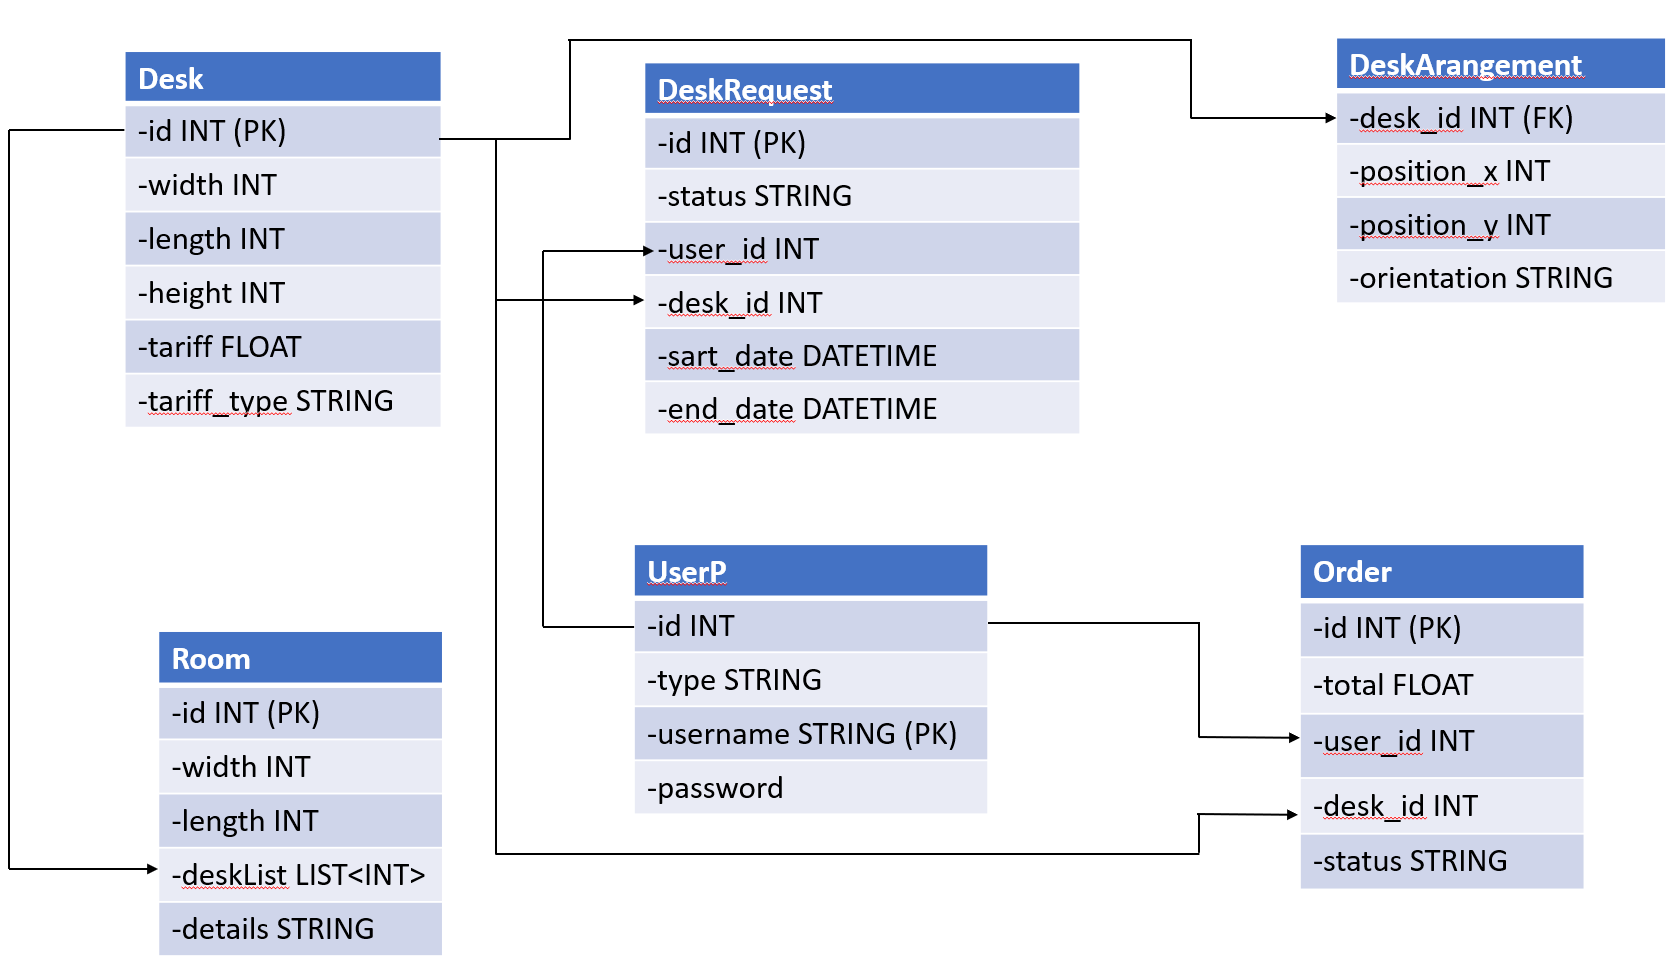
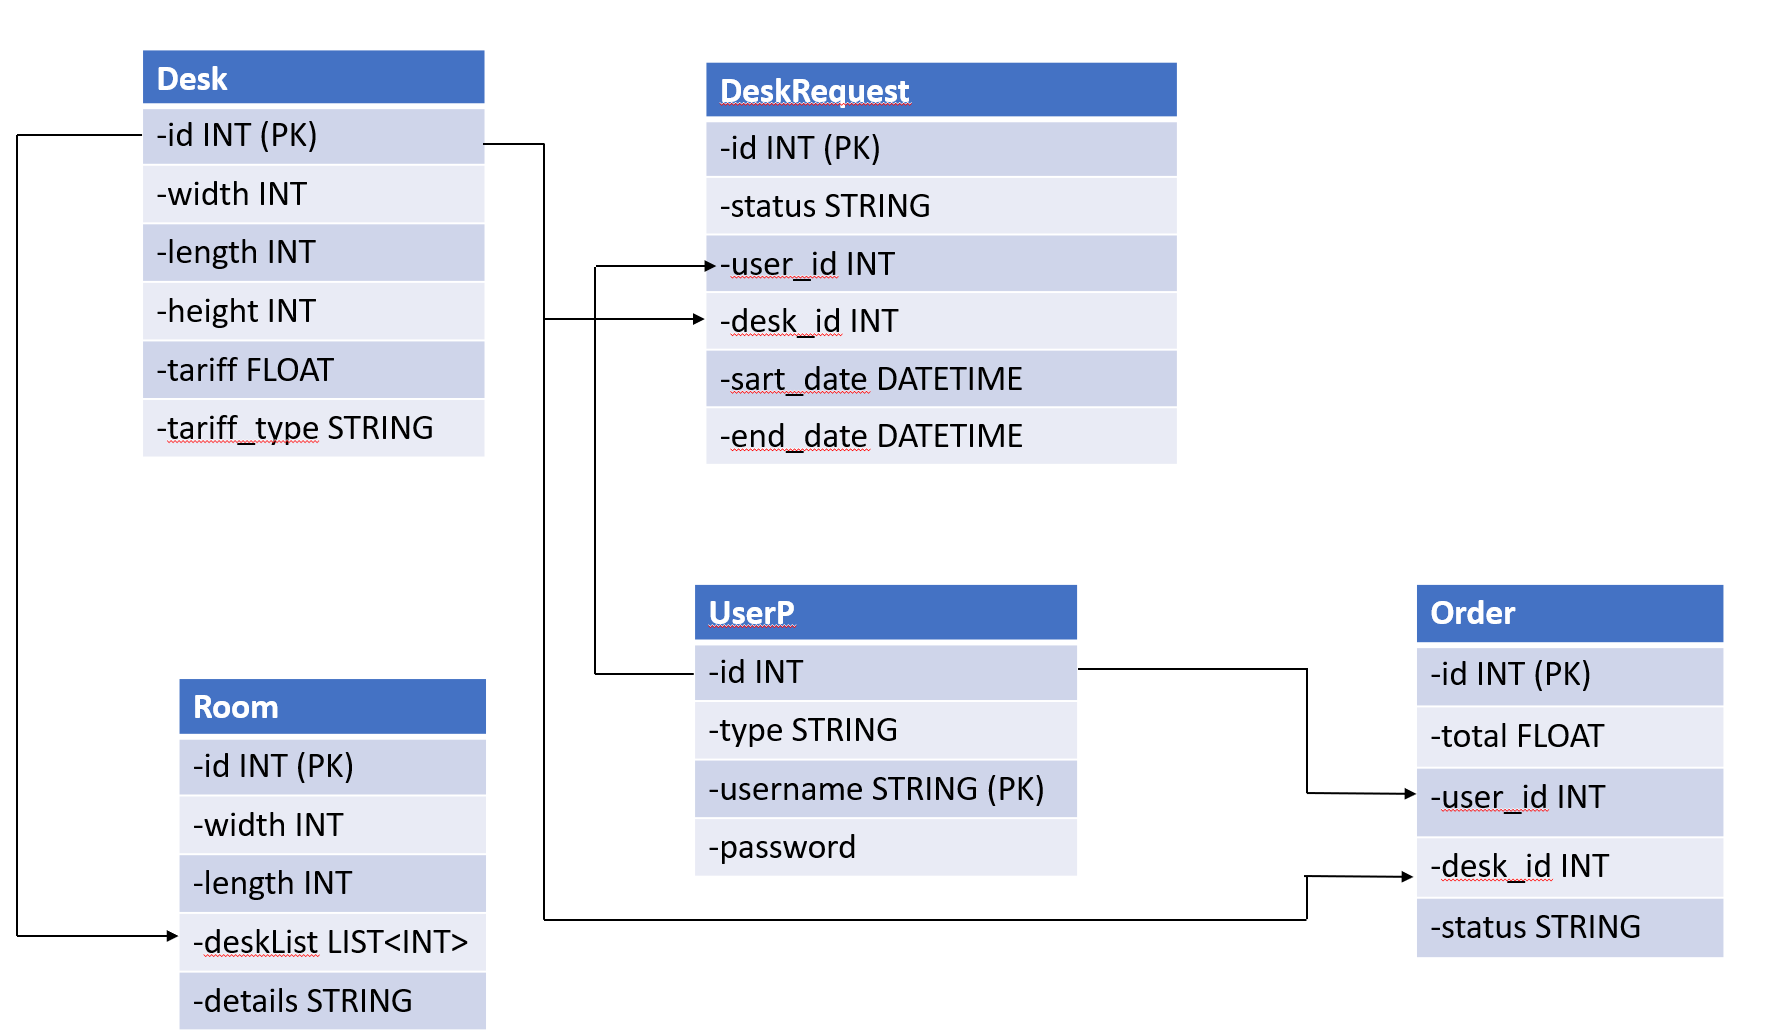
refactoring

diff --git a/src/main/java/com/example/demo/MainController.java b/src/main/java/com/example/demo/MainController.java
@@ -19,7 +19,6 @@ import com.example.demo.models.DeskRequest;
 import com.example.demo.models.Order;
 import com.example.demo.models.Room;
 import com.example.demo.models.UserP;
-import com.example.demo.repos.DeskAlignmentRepository;
 import com.example.demo.repos.DeskRepository;
 import com.example.demo.repos.DeskRequestRepository;
 import com.example.demo.repos.OrderRepository;
@@ -45,9 +44,6 @@ public class MainController {
   @Autowired 
   private OrderRepository orderRepository;
   
-  @Autowired 
-  private DeskAlignmentRepository deskAlignmentRepository;
-
   @PostMapping(path="/user/add") // Map ONLY POST Requests
   public @ResponseBody String addNewUser (
       @RequestParam String username
@@ -287,62 +283,6 @@ public class MainController {
     return "Desk Request Deleted!";
   }
   
-  
-  @PostMapping(path="/desk_alignment/add") // Map ONLY POST Requests
-  public @ResponseBody String addDeskAlignment (
-      @RequestParam Integer positionX, 
-      @RequestParam Integer positionY, 
-      @RequestParam String orientation
-    ) {
-    // @ResponseBody means the returned String is the response, not a view name
-    // @RequestParam means it is a parameter from the GET or POST request
-
-    DeskAlignment deskAlignment = new DeskAlignment();
-    deskAlignment.setPositionX(positionX);
-    deskAlignment.setPositionY(positionY);
-    deskAlignment.setOrientation(orientation);
-    deskAlignmentRepository.save(deskAlignment);
-    return "DeskAlignment Saved";
-  }
-
-  @GetMapping(path="/desk_alignment/all")
-  public @ResponseBody Iterable<DeskAlignment> getAllDeskAlignments() {
-    // This returns a JSON or XML with the users
-   return deskAlignmentRepository.findAll();
-  }  
-
-  @PutMapping(path="/desk_alignment/update") // Map ONLY PUT Requests
-  public @ResponseBody String updateDeskAlignment (
-      @RequestParam Integer id,
-      @RequestParam(required = false) Integer positionX, 
-      @RequestParam(required = false) Integer positionY, 
-      @RequestParam(required = false) String orientation
-    ) {
-    Iterable<DeskAlignment> deskAlignments = deskAlignmentRepository.findAll();
-    deskAlignments.forEach(deskAlignment -> {
-      if(deskAlignment.getDeskId().equals(id)){
-        deskAlignmentRepository.delete(deskAlignment);
-        deskAlignment.setPositionX(positionX);
-        deskAlignment.setPositionX(positionY);
-        deskAlignment.setOrientation(orientation);
-        deskAlignmentRepository.save(deskAlignment);
-      }
-    });
-    return "Desk Alignment Updated!";
-  }
-  
-  @DeleteMapping(path="/desk_alignment/delete") // Map ONLY DELETE Requests
-  public @ResponseBody String deleteDeskAlignment (
-      @RequestParam("id") Integer id
-    ) {
-    Iterable<DeskAlignment> deskAlignments = deskAlignmentRepository.findAll();
-    deskAlignments.forEach(deskAlignment -> {
-      if(deskAlignment.getDeskId().equals(id)){
-        deskAlignmentRepository.delete(deskAlignment);
-      }
-    });
-    return "Desk Alignment Deleted!";
-  }
   
 
   
